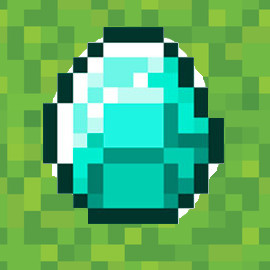
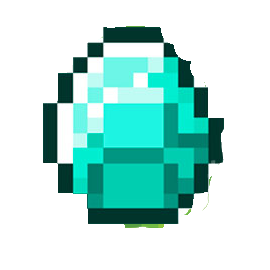
Agrego imagenes

diff --git a/TP2/src/imagenDelJuego/ImagenMapa.java b/TP2/src/imagenDelJuego/ImagenMapa.java
@@ -1,6 +1,6 @@
 package imagenDelJuego;
 
-import javafx.application.Application;
+import javafx.application.Application; 
 import javafx.event.EventHandler;
 import javafx.scene.Scene;
 import javafx.scene.control.Button;
@@ -18,9 +18,12 @@ import javafx.stage.Stage;
 import javafx.util.Duration;
 import junit.framework.Test;
 import mapa.Mapa;
+import javafx.scene.control.Label;
 
 import Jugador.*;
 import Materiales.*;
+
+
 import Herramientas.*;
 
 
@@ -127,6 +130,7 @@ import Herramientas.*;
                         
                         
                     ImageView imagen = new ImageView(img);
+                   
                     
                     imagen.setPreserveRatio(true);
                     
@@ -162,17 +166,33 @@ import Herramientas.*;
             for(int y = 0; y < length; y++){
                 for(int x = 0; x < width; x++){
                 	
-                    Image img = new Image("pasto.png");
+                    Image img = new Image("defaultInventario.png");
                     
                     if((inventario.getElementosGuardados()[z]).getElementoGuardado() == null) {
-                	
-                	} else if((inventario.getElementosGuardados()[z]).getElementoGuardado().getClass() == HachaDeMadera.class) {
-                        img = new Image("Hacha.png");
-                	} else if((inventario.getElementosGuardados()[z]).getElementoGuardado().getClass() == HachaDeMetal.class) {
-                        img = new Image("HachaDeMetal.png");
-                	} else if((inventario.getElementosGuardados()[z]).getElementoGuardado().getClass() == Madera.class) {
-                        img = new Image("madera.png");
-                	}
+
+                    } 	else if((inventario.getElementosGuardados()[z]).getElementoGuardado().getClass() == HachaDeMadera.class) {
+                    		img = new Image("Hacha.png");
+                    } 	else if((inventario.getElementosGuardados()[z]).getElementoGuardado().getClass() == HachaDeMetal.class) {
+                    		img = new Image("HachaDeMetal.png");
+                    } 	else if((inventario.getElementosGuardados()[z]).getElementoGuardado().getClass() == HachaDePiedra.class) {
+                    		img = new Image("HachaDePiedra.png");
+                    }	else if((inventario.getElementosGuardados()[z]).getElementoGuardado().getClass() == Piedra.class) {
+                			img = new Image("piedra.png");
+                    }	 else if((inventario.getElementosGuardados()[z]).getElementoGuardado().getClass() == Madera.class) {
+                    		img = new Image("madera.png");
+                    } 	else if((inventario.getElementosGuardados()[z]).getElementoGuardado().getClass() == Diamante.class){
+                    		img = new Image("diamante.png");
+                    }	else if((inventario.getElementosGuardados()[z]).getElementoGuardado().getClass() == Metal.class){
+                    		img = new Image("Metal.png");
+                    }	else if((inventario.getElementosGuardados()[z]).getElementoGuardado().getClass() == PicoDePiedra.class){
+                    		img = new Image("PicoDePiedra.png");
+                    }	else if((inventario.getElementosGuardados()[z]).getElementoGuardado().getClass() == PicoDeMetal.class){
+                    		img = new Image("PicoDeMetal.png");
+                    }	else if((inventario.getElementosGuardados()[z]).getElementoGuardado().getClass() == PicoDeMadera.class){
+                    		img = new Image("PicoDeMadera.png");
+                    }	else if((inventario.getElementosGuardados()[z]).getElementoGuardado().getClass() == PicoFino.class){
+                    		img = new Image("PicoFino.png");
+                    }
                         
                     ImageView imagen = new ImageView(img);
                     
@@ -180,8 +200,8 @@ import Herramientas.*;
                     
                     imagen.setFitHeight(50);
                     imagen.setFitWidth(50);
-               
-
+                    
+                   
                     GridPane.setRowIndex(imagen,y);
                     GridPane.setColumnIndex(imagen,x);   
                     root.getChildren().add(imagen);   

diff --git a/TP2/src/imagenDelJuego/BotonCambiarHerramientaHandler.java b/TP2/src/imagenDelJuego/BotonCambiarHerramientaHandler.java
@@ -1,7 +1,7 @@
 package imagenDelJuego;
 
-import Herramientas.HachaDeMadera;
-import Herramientas.HachaDeMetal;
+
+import Herramientas.*;
 import Jugador.Inventario;
 import Jugador.Jugador;
 import javafx.event.ActionEvent;
@@ -26,9 +26,18 @@ public class BotonCambiarHerramientaHandler implements EventHandler<ActionEvent>
 		Inventario inventario = jugador.getInventario();
 		if(inventario.getHerramientaSeleccionada().getClass()==HachaDeMadera.class) {
 			imagen.setImage(new Image("Hacha.png"));
-		}
-		else if(inventario.getHerramientaSeleccionada().getClass()==HachaDeMetal.class) {
+		}else if(inventario.getHerramientaSeleccionada().getClass()==HachaDeMetal.class) {
 			imagen.setImage(new Image("HachaDeMetal.png"));
+		}else if(inventario.getHerramientaSeleccionada().getClass()==HachaDePiedra.class) {
+			imagen.setImage(new Image("HachaDePiedra.png"));
+		}else if(inventario.getHerramientaSeleccionada().getClass()==PicoDeMadera.class) {
+			imagen.setImage(new Image("PicoDeMadera.png"));
+		}else if(inventario.getHerramientaSeleccionada().getClass()==PicoDeMetal.class) {
+			imagen.setImage(new Image("PicoDeMetal.png"));
+		}else if(inventario.getHerramientaSeleccionada().getClass()==PicoDePiedra.class) {
+			imagen.setImage(new Image("PicoDePiedra.png"));
+		}else if(inventario.getHerramientaSeleccionada().getClass()==PicoFino.class) {
+			imagen.setImage(new Image("PicoFino.png"));
 		}
 	}
 

diff --git a/TP2/src/Jugador/Inventario.java b/TP2/src/Jugador/Inventario.java
@@ -17,7 +17,6 @@ public class Inventario {
         	elementosGuardados[i] = new Paquete();
         }
     	elementosGuardados[0].setElementoGuardado(new HachaDeMadera());
-    	elementosGuardados[1].setElementoGuardado(new HachaDeMetal());
         herramientaSeleccionada = (Herramienta)elementosGuardados[0].getElementoGuardado();
     }
     
